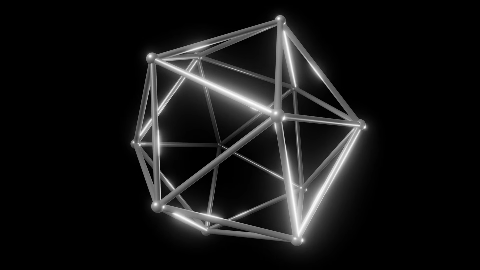
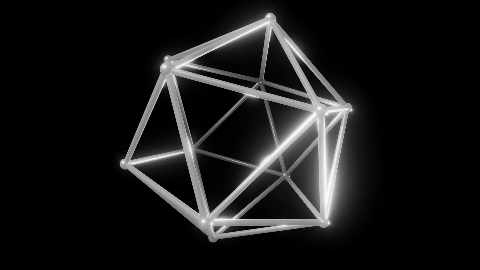
feat(visuals): Update default media fit from stretch to cover

Changed region(s): [[0.25, 0.0296, 0.7812, 0.9481]]

diff --git a/difracta-visuals/src/visuals/video.ts b/difracta-visuals/src/visuals/video.ts
@@ -30,7 +30,7 @@ export const video = defineShaderVisual({
     "A video from the Installation's Media over the Target, with Play, Pause and Stop Cues, looping, speed and a tint.",
   recommended: true,
   notes:
-    "Plays one video Media item on the Target, muted, with the same Fit choices as Image: Stretch maps it corner to corner, Cover keeps its shape and crops, Contain keeps its shape and leaves the rest clear. Autoplay starts it the moment the Layer is planned (a Scene played, the Layer enabled); off, it waits stopped on its first frame for the Play Cue. Play from stopped starts at the beginning, from paused resumes, and while playing restarts, so a Macro that fires Play on the downbeat re-syncs it; Pause holds the frame; Stop returns to the first frame, and with Hide on Stop the Layer goes dark until the next Play, so a clip can be a one-shot hit. Loop off ends in stopped the same way. Speed is the playback rate, 1/16 to 16 times, live. A white-on-black clip in Additive blend mode needs no keying: black adds nothing and the Tint paints the rest; link Tint to a Color Controller for the palette. Each Output plays its own copy of the file, so two Outputs may drift by a frame or two, and every Layer playing the clip decodes it separately. Costs a decode and one texture upload per video frame while playing, nothing while paused, stopped or faded out (a Layer at opacity zero pauses it). A stopped Layer holds no video player: Play takes the one the Output keeps ready for each Media item, so it starts at once, and a Layer that fires Play while another just took that clip's player opens its own, a frame or two later. Keep Warm makes the Layer hold its own player while stopped, for a Play that is always immediate, at the price of one more video player held, so leave it off except on the few hits that re-trigger fast on a clip other Layers play too. Hardware decoding goes to a limited number of players playing at the same moment (16 on Chromium on Linux) and the ones past it decode on the CPU, which the Output card shows as a warning, so keep the Layers playing at once under that. Stack Filters over it for treatment and Blink or Strobe in Additive above it for hits.",
+    "Plays one video Media item on the Target, muted, with the same Fit choices as Image: Cover, the default, keeps its shape and crops, Contain keeps its shape and leaves the rest clear, Stretch maps it corner to corner. Autoplay starts it the moment the Layer is planned (a Scene played, the Layer enabled); off, it waits stopped on its first frame for the Play Cue. Play from stopped starts at the beginning, from paused resumes, and while playing restarts, so a Macro that fires Play on the downbeat re-syncs it; Pause holds the frame; Stop returns to the first frame, and with Hide on Stop the Layer goes dark until the next Play, so a clip can be a one-shot hit. Loop off ends in stopped the same way. Speed is the playback rate, 1/16 to 16 times, live. A white-on-black clip in Additive blend mode needs no keying: black adds nothing and the Tint paints the rest; link Tint to a Color Controller for the palette. Each Output plays its own copy of the file, so two Outputs may drift by a frame or two, and every Layer playing the clip decodes it separately. Costs a decode and one texture upload per video frame while playing, nothing while paused, stopped or faded out (a Layer at opacity zero pauses it). A stopped Layer holds no video player: Play takes the one the Output keeps ready for each Media item, so it starts at once, and a Layer that fires Play while another just took that clip's player opens its own, a frame or two later. Keep Warm makes the Layer hold its own player while stopped, for a Play that is always immediate, at the price of one more video player held, so leave it off except on the few hits that re-trigger fast on a clip other Layers play too. Hardware decoding goes to a limited number of players playing at the same moment (16 on Chromium on Linux) and the ones past it decode on the CPU, which the Output card shows as a warning, so keep the Layers playing at once under that. Stack Filters over it for treatment and Blink or Strobe in Additive above it for hits.",
   parameters: {
     media: {
       kind: "media",

diff --git a/difracta-visuals/src/visuals/image.ts b/difracta-visuals/src/visuals/image.ts
@@ -6,10 +6,10 @@ export const image = defineShaderVisual({
   id: "image",
   name: "Image",
   description:
-    "A picture from the Installation's Media over the Target, stretched, covering or contained, through a tint.",
+    "A picture from the Installation's Media over the Target, covering, contained or stretched, through a tint.",
   recommended: true,
   notes:
-    "Shows one image Media item on the Target: Stretch maps it corner to corner, so a picture drawn at the Surface's proportions lands exactly, Cover keeps its shape and crops the overflow, Contain keeps its shape and leaves the rest of the Surface clear. A white-on-black picture on a Layer in Additive blend mode needs no keying: black adds nothing, so only the drawing lights the wall, and Tint paints it; link Tint to a Color Controller to put the artwork in the show's palette. A PNG with transparency composes the same way in Normal. Costs one texture upload when the picture arrives and one shader pass per Surface only on the frames something changed; a static picture costs the Output nothing between edits. Stack it under Filters for motion (Wave Distortion, Chromatic Aberration) or under Blink, Strobe or Flash Matrix in Additive for hits on top of it; swap the Media Parameter from a Macro to change artwork on a Cue.",
+    "Shows one image Media item on the Target: Cover, the default, keeps its shape and crops the overflow, Contain keeps its shape and leaves the rest of the Surface clear, and Stretch maps it corner to corner, so a picture drawn at the Surface's proportions lands exactly whatever else it does. A white-on-black picture on a Layer in Additive blend mode needs no keying: black adds nothing, so only the drawing lights the wall, and Tint paints it; link Tint to a Color Controller to put the artwork in the show's palette. A PNG with transparency composes the same way in Normal. Costs one texture upload when the picture arrives and one shader pass per Surface only on the frames something changed; a static picture costs the Output nothing between edits. Stack it under Filters for motion (Wave Distortion, Chromatic Aberration) or under Blink, Strobe or Flash Matrix in Additive for hits on top of it; swap the Media Parameter from a Macro to change artwork on a Cue.",
   parameters: {
     media: {
       kind: "media",

diff --git a/difracta-render/gpu/media.test.ts b/difracta-render/gpu/media.test.ts
@@ -34,7 +34,9 @@ describe("Image pixels", () => {
     const stage = new Stage()
       .media("pic", "sample.png")
       .surface("wall")
-      .visual("image", "wall", "image", { params: { media: "pic" } });
+      .visual("image", "wall", "image", {
+        params: { media: "pic", fit: "stretch" },
+      });
     const frame = await renderer().render(stage.document(), 128, 72, 10, media);
     expectColor(pixel(frame, 88, 36), WHITE); // on the ring
     expectColor(pixel(frame, 64, 36), BLACK); // inside it
@@ -46,7 +48,7 @@ describe("Image pixels", () => {
       .media("pic", "sample.png")
       .surface("wall")
       .visual("image", "wall", "image", {
-        params: { media: "pic", tint: [1, 0, 0, 1] },
+        params: { media: "pic", fit: "stretch", tint: [1, 0, 0, 1] },
       });
     const red = await renderer().render(tinted.document(), 128, 72, 10, media);
     expectColor(pixel(red, 88, 36), RED);

diff --git a/difracta-visuals/src/visuals/media-fit.ts b/difracta-visuals/src/visuals/media-fit.ts
@@ -19,14 +19,14 @@ export const MEDIA_FIT_PARAMETERS = {
   fit: {
     kind: "choice",
     label: "Fit",
-    default: "stretch",
+    default: "cover",
     options: [
       { value: "stretch", label: "Stretch" },
       { value: "cover", label: "Cover" },
       { value: "contain", label: "Contain" },
     ],
     description:
-      "Stretch fills the Surface whatever the picture's shape; Cover keeps the shape and crops; Contain keeps the shape and leaves the rest clear.",
+      "Cover keeps the picture's shape and crops what overflows; Contain keeps the shape and leaves the rest clear; Stretch fills the Surface whatever the picture's shape.",
   },
 } as const;
 

diff --git a/difracta-visuals/src/visuals/media-visuals.test.ts b/difracta-visuals/src/visuals/media-visuals.test.ts
@@ -104,7 +104,7 @@ describe("Image", () => {
     const shown = frame({ media: "logo" });
     expect(shown).toMatchObject({ blank: false, changed: true });
     expect(frame({ media: "logo" }).changed).toBe(false);
-    expect(frame({ media: "logo", fit: "cover" }).changed).toBe(true);
+    expect(frame({ media: "logo", fit: "stretch" }).changed).toBe(true);
     expect(frame({ media: "" })).toMatchObject({ blank: true, changed: true });
   });
 });

diff --git a/docs/GLOSSARY.md b/docs/GLOSSARY.md
@@ -308,9 +308,9 @@ Its Animation is how a digit becomes the next: Cut, Roll, Flip or Pop.
 ### Image
 
 The built-in shader Visual that shows an image Media item on its Target, through
-a Fit (stretch, cover or contain) and a Tint. The Output loads every Media item
-ahead of use and uploads the picture to a texture once; the Layer is blank until
-the picture is decoded or while the Parameter is `""`.
+a Fit (cover by default, contain or stretch) and a Tint. The Output loads every
+Media item ahead of use and uploads the picture to a texture once; the Layer is
+blank until the picture is decoded or while the Parameter is `""`.
 
 ### Video
 
